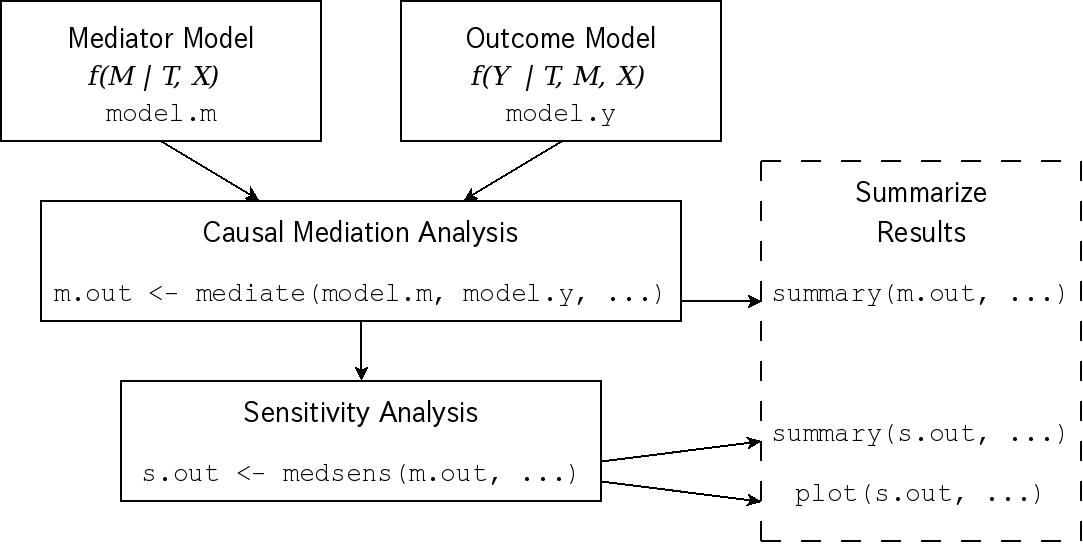
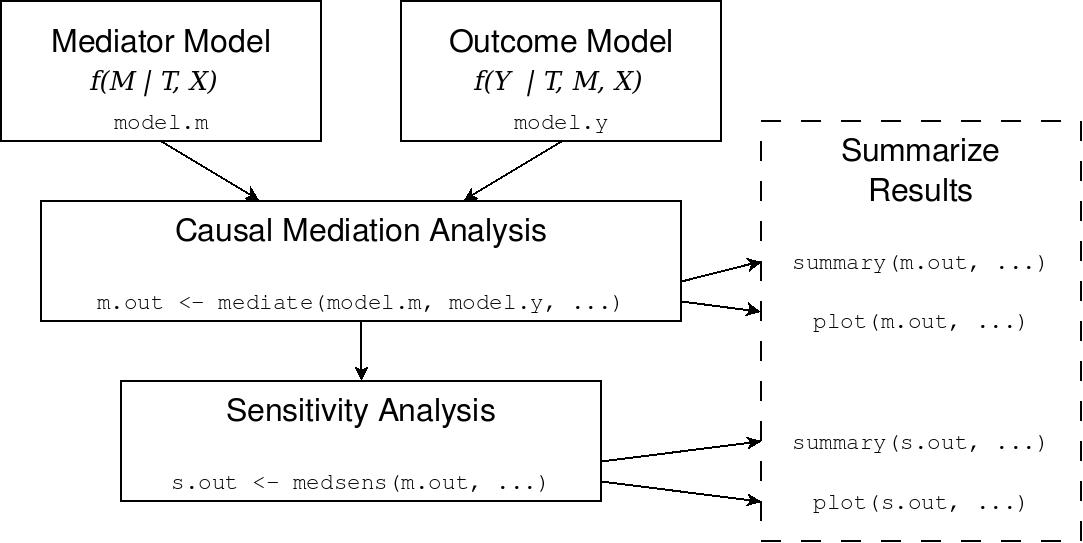
some progress on mediation vignette

diff --git a/inst/doc/mediation.tex b/inst/doc/mediation.tex
@@ -335,11 +335,9 @@ them as inputs for the main function, {\tt mediate()}. This function
 then estimates the causal mediation effects, direct effects, and total
 effect along with their uncertainty estimates. Finally, sensitivity
 analysis can be conducted via the function {\tt medsens()} which takes
-the output of {\tt mediate()} as an input.  For the output of the {\tt
-  mediate()} function, a {\tt summary()} method reports its key
-results in tabular form.  For the output of the {\tt medsens()}
-function, there are both {\tt summary()} and {\tt plot()} functions to
-display numerical and graphical summaries of the sensitivity analysis,
+the output of {\tt mediate()} as an input.  For these outputs, 
+there are both {\tt summary()} and {\tt plot()} methods to
+display numerical and graphical summaries of the analyses,
 respectively.
 
 \subsection{Estimation of the Causal Mediation Effects}
@@ -493,7 +491,7 @@ $W \ = \ \l[\begin{array}{c} M \\
 $Y=(Y_1,\dots,Y_n)^\top$ are column vectors of length $n$, and $X = (X_1, \dots, X_n)^\top$ are the $(n \times K)$ matrix of observed pre-treatment covariates, and $\otimes$ represents the Kronecker product. We typically use
 equation-by-equation least squares estimates as the starting values of $\theta$
 and iterate these two steps until convergence.  This is essentially an
-application of the iterative feasible generalized least square algorithm of the
+application of the iterative feasible generalized least square (FGLS) algorithm of the
 seemingly unrelated regression \citep{zell:62}, and thus the asymptotic variance
 of $\hat\theta$ is given by $\var(\hat\theta) = \{V^\top (\Sigma^{-1} \otimes
 I_n) V\}^{-1}$. Then, for a given value of $\rho$, the asymptotic variance of the estimated average causal mediation effects
@@ -567,6 +565,27 @@ unobserved confounder must be (relative to the observed pre-treatment
 covariates in the model) in order for the original conclusions to be
 reversed.
 
+\paragraph{Sensitivity Analyses with Respect to the Average Direct Effects.}
+In addition to the above procedures for the average causal mediation effects,
+an analogous sensitivity analysis can also be conducted for the average direct 
+effects using the {\tt medsens} function.  This is possible because it can be
+shown that the average direct effects are also expressed as a function of $\rho$
+in any of the above three cases.  First, when both the mediator and outcome variables
+are continuous and modelled using linear structural equations, the iterative FGLS algorithm
+given above can be used to estimate the model coefficients and both the point and interval
+estimates of the average direct effects can be obtained using the formulas given by
+\citet[Section 4.1]{imai:keel:yama:10} and \citet[p.314 and Appendix A]{imai:keel:ting:10}.
+Second, when the mediator is binary and modelled using the probit regression,
+the average direct effect is given by $\bar\zeta(t) = \beta_3 + \kappa\E\{
+\Phi(\alpha_2 + \beta_2 t + \xi_2^\top X_i)\}$ using the same notation as
+\citet[footnote 12]{imai:keel:ting:10}, where all of the parameters, $(\alpha_2,
+\beta_2, \xi_2, \beta_3, \kappa)$, are identified and consistently estimated
+using the same procedure.  Finally, for the binary outcome case,
+the average direct effect is identified given a value of $\rho$ and expressed
+as $\bar\zeta(t) = \E\{\Phi(\alpha_1 + \beta_1 t + \xi_1^\top X_i +
+\beta_3(1-t)/\sqrt{\gamma^2\sigma_2^2 + 2\gamma\rho\sigma_2 + 1})
+- \Phi(\alpha_1 + \beta_1 t + \xi_1^\top X_i - \beta_3 t/\sqrt{\gamma^2\sigma_2^2 + 2\gamma\rho\sigma_2 + 1}) \}$, which can be estimated via the same procedure as
+described in Appendix H of \citet{imai:keel:ting:10}.
 
 \subsection{Current Limitations}
 
